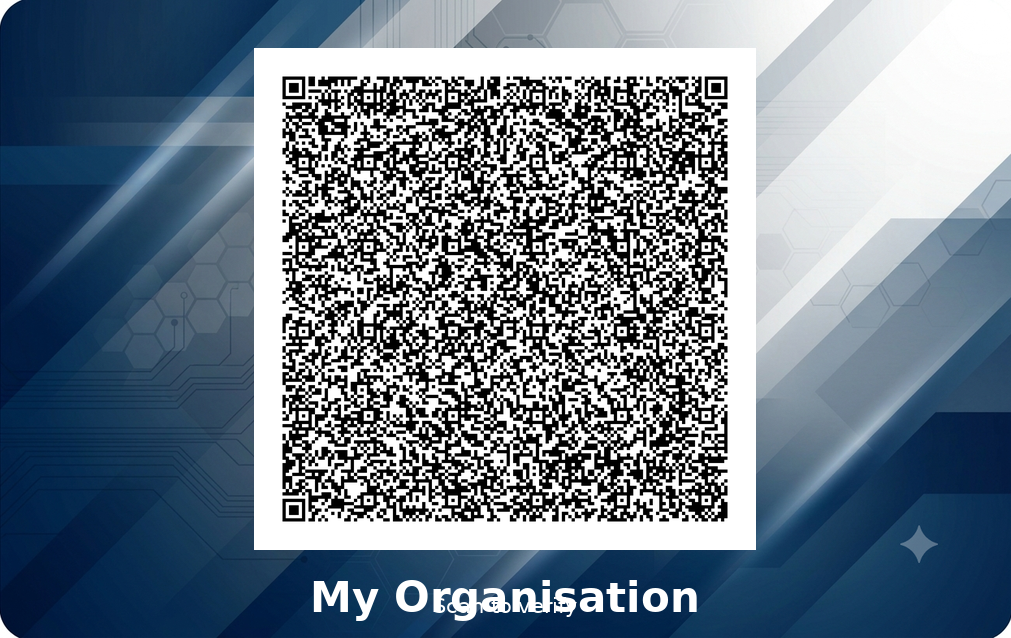
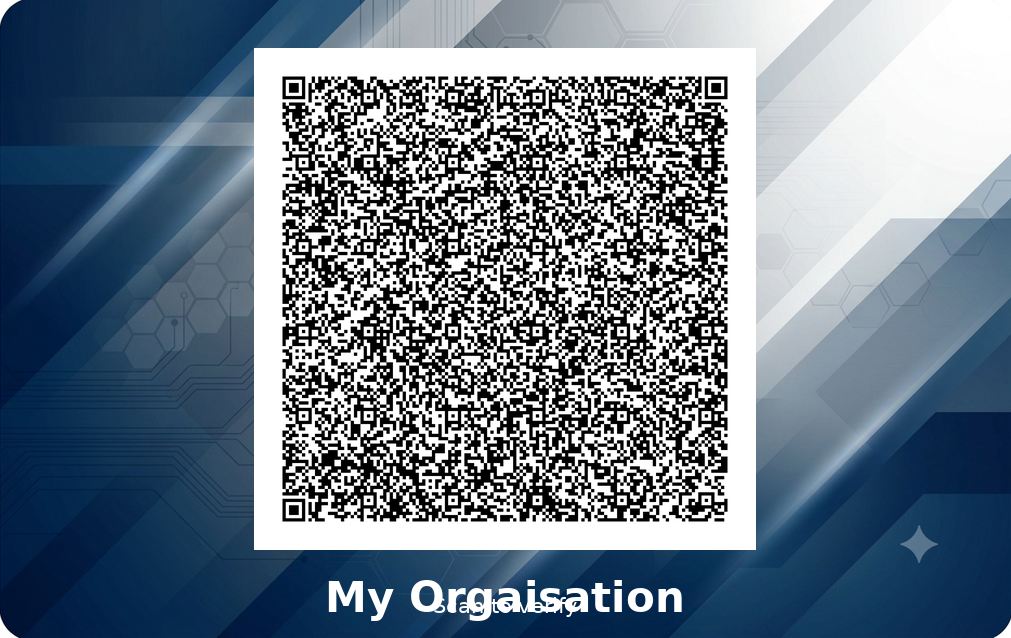
Withgeneratemakeandforge

Changed region(s): [[0.276, 0.1191, 0.7359, 0.8339], [0.3066, 0.8934, 0.7052, 0.9828]]

diff --git a/icardforger.py b/icardforger.py
@@ -1,0 +1,217 @@
+#!/usr/bin/env python3
+"""
+ICardForger — tampers with the name field in an ICard QR payload
+and saves it as a new card image. The signature will be invalid
+when scanned with qricardreader.py, demonstrating forgery detection.
+
+Usage:
+  python3 icardforger.py [--image icard/icard_back.png]
+                         [--background Background.png]
+                         [--name "FORGED_NAME"]
+                         [--out forgedIcard.png]
+"""
+
+import sys
+import argparse
+import gzip
+import math
+from pathlib import Path
+
+sys.set_int_max_str_digits(0)
+
+import zxingcpp
+import qrcode
+from PIL import Image, ImageDraw, ImageFont
+
+DPI    = 300
+CARD_W = round(85.6 / 25.4 * DPI)
+CARD_H = round(54.0 / 25.4 * DPI)
+
+JP2_SOC = b'\xff\x4f\xff\x51'
+JP2_EOC = b'\xff\xd9'
+
+
+# ─────────────────────────── helpers ─────────────────────────────────
+
+def load_font(size, bold=False):
+    candidates = [
+        "/usr/share/fonts/truetype/dejavu/DejaVuSans-Bold.ttf"
+        if bold else "/usr/share/fonts/truetype/dejavu/DejaVuSans.ttf",
+        "/usr/share/fonts/TTF/DejaVuSans-Bold.ttf"
+        if bold else "/usr/share/fonts/TTF/DejaVuSans.ttf",
+    ]
+    for path in candidates:
+        if Path(path).exists():
+            return ImageFont.truetype(path, size)
+    return ImageFont.load_default()
+
+
+def fit_background(path):
+    bg    = Image.open(path).convert("RGB")
+    scale = max(CARD_W / bg.width, CARD_H / bg.height)
+    new_size = (math.ceil(bg.width * scale), math.ceil(bg.height * scale))
+    bg    = bg.resize(new_size, Image.Resampling.LANCZOS)
+    left  = (bg.width  - CARD_W) // 2
+    top   = (bg.height - CARD_H) // 2
+    return bg.crop((left, top, left + CARD_W, top + CARD_H)).convert("RGBA")
+
+
+def decode_qr(image_path: str) -> str:
+    img     = Image.open(image_path)
+    results = zxingcpp.read_barcodes(img)
+    if not results:
+        raise RuntimeError(f"No QR code found in: {image_path}")
+    return results[0].text
+
+
+def decompress(decimal_str: str) -> bytes:
+    big_int   = int(decimal_str)
+    num_bytes = (big_int.bit_length() + 7) // 8
+    raw       = big_int.to_bytes(num_bytes, byteorder='big')
+    if raw[:2] != b'\x1f\x8b':
+        raise RuntimeError("Not a gzip payload")
+    return gzip.decompress(raw)
+
+
+def recompress(data: bytes) -> str:
+    compressed  = gzip.compress(data, compresslevel=9)
+    big_int     = int.from_bytes(compressed, byteorder='big')
+    return str(big_int)
+
+
+def tamper_name(decompressed: bytes, new_name: str) -> bytes:
+    """
+    Replace the name field (field index 1 after version+flag prefix)
+    in the 0xFF-delimited payload WITHOUT touching the signature.
+    The signature will then cover different data than what's present
+    → detected as forged on verification.
+    """
+    # Layout: V5 \xff <flag> \xff <ref_id> \xff <NAME> \xff ...
+    # Split on \xff but preserve the photo binary (which contains \xff bytes)
+    # Strategy: split only up to the JP2 SOC marker, leave the rest intact.
+
+    jp2_pos = decompressed.find(JP2_SOC)
+    if jp2_pos == -1:
+        raise RuntimeError("JP2 SOC not found — cannot locate photo boundary")
+
+    text_part  = decompressed[:jp2_pos]   # all \xFF-delimited fields
+    binary_part = decompressed[jp2_pos:]   # photo + signature + email
+
+    fields = text_part.split(b'\xff')
+    # fields[0] = b'V5'
+    # fields[1] = email_mobile_flag
+    # fields[2] = ref_id
+    # fields[3] = NAME  ← tamper here
+    if len(fields) < 4:
+        raise RuntimeError("Unexpected field count — cannot locate name field")
+
+    original_name = fields[3].decode('utf-8', errors='replace')
+    print(f"  Original name : {original_name}")
+    print(f"  Forged name   : {new_name}")
+
+    fields[3] = new_name.encode('utf-8')
+
+    tampered_text = b'\xff'.join(fields)
+    return tampered_text + binary_part   # signature is unchanged → mismatch
+
+
+def render_back(background_path: str, qr_decimal: str, organisation: str) -> Image.Image:
+    card = fit_background(background_path)
+    draw = ImageDraw.Draw(card)
+
+    qr = qrcode.QRCode(
+        version=None,
+        error_correction=qrcode.constants.ERROR_CORRECT_M,
+        box_size=12,
+        border=2,
+    )
+    qr.add_data(qr_decimal)
+    qr.make(fit=True)
+    print(f"  QR version: {qr.version}")
+    qr_img = qr.make_image(fill_color="black", back_color="white").convert("RGB")
+
+    max_qr = min(CARD_H - 180, CARD_W - 180)
+    qr_img.thumbnail((max_qr, max_qr), Image.Resampling.LANCZOS)
+
+    qr_x = (CARD_W - qr_img.width)  // 2
+    qr_y = 70
+
+    pad   = 22
+    plate = Image.new("RGBA", (qr_img.width + 2 * pad, qr_img.height + 2 * pad), "white")
+    card.alpha_composite(plate, (qr_x - pad, qr_y - pad))
+    card.paste(qr_img, (qr_x, qr_y))
+
+    org_font  = load_font(42, bold=True)
+    small_font = load_font(21)
+    max_width = CARD_W - 80
+
+    while draw.textbbox((0, 0), organisation, font=org_font)[2] > max_width \
+            and org_font.size > 22:
+        org_font = load_font(org_font.size - 2, bold=True)
+
+    bbox  = draw.textbbox((0, 0), organisation, font=org_font)
+    org_x = (CARD_W - (bbox[2] - bbox[0])) // 2
+    org_y = qr_y + qr_img.height + 45
+    draw.text((org_x, org_y), organisation, font=org_font, fill="white")
+
+    note = "Scan to verify"
+    nb   = draw.textbbox((0, 0), note, font=small_font)
+    draw.text(
+        ((CARD_W - (nb[2] - nb[0])) // 2, CARD_H - 45),
+        note, font=small_font, fill="white",
+    )
+
+    return card
+
+
+# ─────────────────────────── main ────────────────────────────────────
+
+def main():
+    parser = argparse.ArgumentParser(description="ICard forger — demo of tampering detection")
+    parser.add_argument("--image",      default="icard/icard_back.png")
+    parser.add_argument("--background", default="Background.png")
+    parser.add_argument("--name",       default="FORGED_NAME",
+                        help="Replacement name to inject")
+    parser.add_argument("--org",        default="My Organisation",
+                        help="Organisation text on the card (keep same as original)")
+    parser.add_argument("--out",        default="forgedIcard.png")
+    args = parser.parse_args()
+
+    image_path = Path(args.image)
+    bg_path    = Path(args.background)
+
+    if not image_path.is_file():
+        print(f"Error: image not found: {image_path}"); sys.exit(1)
+    if not bg_path.is_file():
+        print(f"Error: background not found: {bg_path}"); sys.exit(1)
+
+    print("\n[1] Decoding QR from card back…")
+    decimal_str = decode_qr(str(image_path))
+    print(f"  Decoded {len(decimal_str)} digits")
+
+    print("\n[2] Decompressing payload…")
+    decompressed = decompress(decimal_str)
+    print(f"  Decompressed size: {len(decompressed)} bytes")
+
+    print("\n[3] Tampering with name field…")
+    tampered = tamper_name(decompressed, args.name)
+
+    print("\n[4] Recompressing tampered payload…")
+    forged_decimal = recompress(tampered)
+    print(f"  Forged decimal string: {len(forged_decimal)} digits")
+
+    print("\n[5] Rendering forged card…")
+    card = render_back(str(bg_path), forged_decimal, args.org)
+    out_path = Path(args.out)
+    card.convert("RGB").save(str(out_path), dpi=(DPI, DPI), optimize=True)
+    print(f"  Saved: {out_path}")
+
+    print("\n[6] Done.")
+    print(f"  Scan {out_path} with qricardreader.py — it should report:")
+    print(f"  ✗  SIGNATURE INVALID — the name was changed but the")
+    print(f"     RSA signature still covers the original payload.")
+    print()
+
+
+if __name__ == "__main__":
+    main()

diff --git a/gen_cert.py b/gen_cert.py
@@ -3,9 +3,9 @@
 Generate an RSA-2048 private key and a self-signed X.509 certificate
 in the same style as the UIDAI signing cert.
 
-Outputs:
-  icard_sign.key  - PEM private key (keep this secret)
-  icard_sign.cer  - PEM certificate (distribute with the card reader)
+Outputs (inside the certsnkeys/ folder):
+  certsnkeys/icard_sign.key  - PEM private key (keep this secret)
+  certsnkeys/icard_sign.cer  - PEM certificate (distribute with the card reader)
 
 Usage:
   python3 gen_cert.py [--org "My Organisation"] [--cn "DS MYORG 01"]
@@ -20,6 +20,8 @@ from cryptography.x509.oid import NameOID
 from cryptography.hazmat.primitives import hashes, serialization
 from cryptography.hazmat.primitives.asymmetric import rsa
 
+OUT_DIR = "certsnkeys"
+
 
 def main():
     parser = argparse.ArgumentParser(description="Generate icard signing key + cert")
@@ -31,8 +33,8 @@ def main():
     parser.add_argument("--ou",      default="Technology Centre")
     parser.add_argument("--years",   default=3, type=int,
                         help="Certificate validity in years")
-    parser.add_argument("--key-out", default="icard_sign.key")
-    parser.add_argument("--cer-out", default="icard_sign.cer")
+    parser.add_argument("--key-out", default=f"{OUT_DIR}/icard_sign.key")
+    parser.add_argument("--cer-out", default=f"{OUT_DIR}/icard_sign.cer")
     args = parser.parse_args()
 
     # --- Generate RSA-2048 private key ---
@@ -83,6 +85,7 @@ def main():
 
     # --- Write private key ---
     key_path = Path(args.key_out)
+    key_path.parent.mkdir(parents=True, exist_ok=True)
     key_path.write_bytes(
         key.private_bytes(
             encoding=serialization.Encoding.PEM,
@@ -94,6 +97,7 @@ def main():
 
     # --- Write certificate ---
     cer_path = Path(args.cer_out)
+    cer_path.parent.mkdir(parents=True, exist_ok=True)
     cer_path.write_bytes(cert.public_bytes(serialization.Encoding.PEM))
     print(f"Certificate : {cer_path}  ← distribute with reader")
 

diff --git a/make_icard.py b/make_icard.py
@@ -18,7 +18,7 @@ string so that QR numeric mode can be used for maximum density.
 
 Expected files in the working directory:
   Background.png
-  icard_sign.key    (from gen_cert.py)
+  certsnkeys/icard_sign.key    (from gen_cert.py)
 
 Usage:
   python3 make_icard.py \\
@@ -425,7 +425,7 @@ def main():
 
     # Files
     parser.add_argument("--background",    default="Background.png")
-    parser.add_argument("--key",           default="icard_sign.key",
+    parser.add_argument("--key",           default="certsnkeys/icard_sign.key",
                         help="PEM private key from gen_cert.py")
     parser.add_argument("--output",        default="icard")
 
